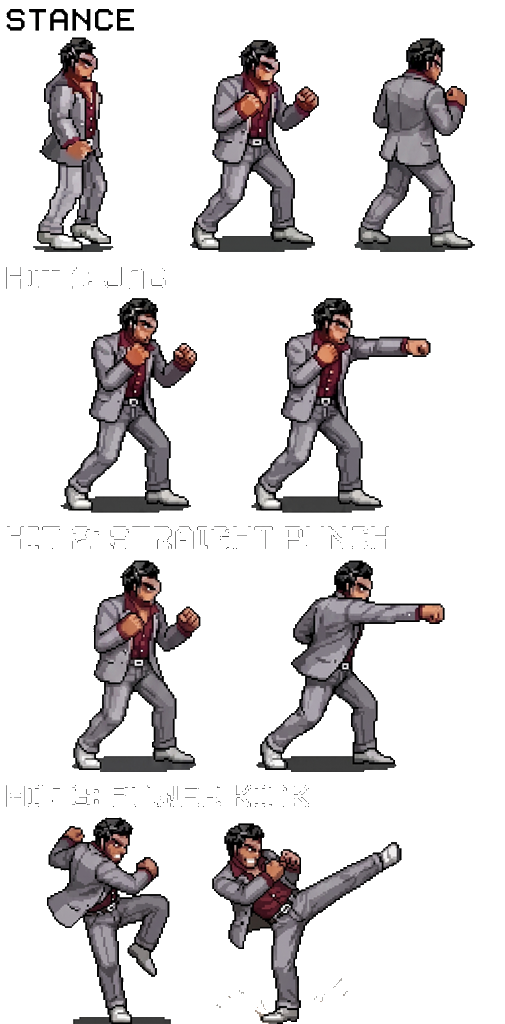
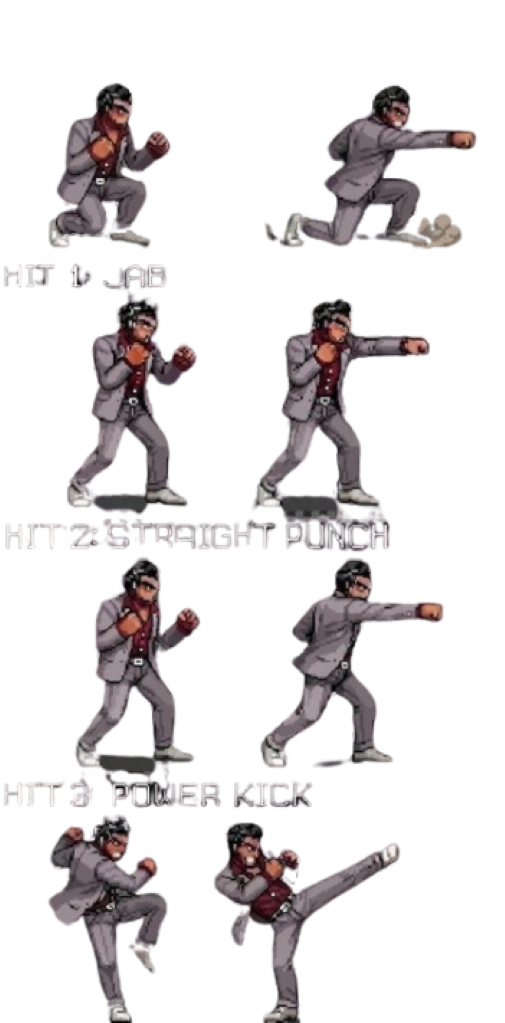
kucanie i atak w trakcie kucania

Changed region(s): [[0.0, 0.0, 0.8911, 1.0], [0.3564, 0.0303, 0.9505, 0.2727]]

diff --git a/dll/gracz.h b/dll/gracz.h
@@ -1,7 +1,7 @@
 #pragma once
 #include <SFML/Graphics.hpp>
 #include "tlo.h"
-enum class Stan { IDLE, BIEG, SKOK, ATAK_1, ATAK_2, ATAK_3 };
+enum class Stan { IDLE, BIEG, SKOK, ATAK_1, ATAK_2, ATAK_3, KUCANIE };
 class __declspec(dllexport) gracz
 {
 private: